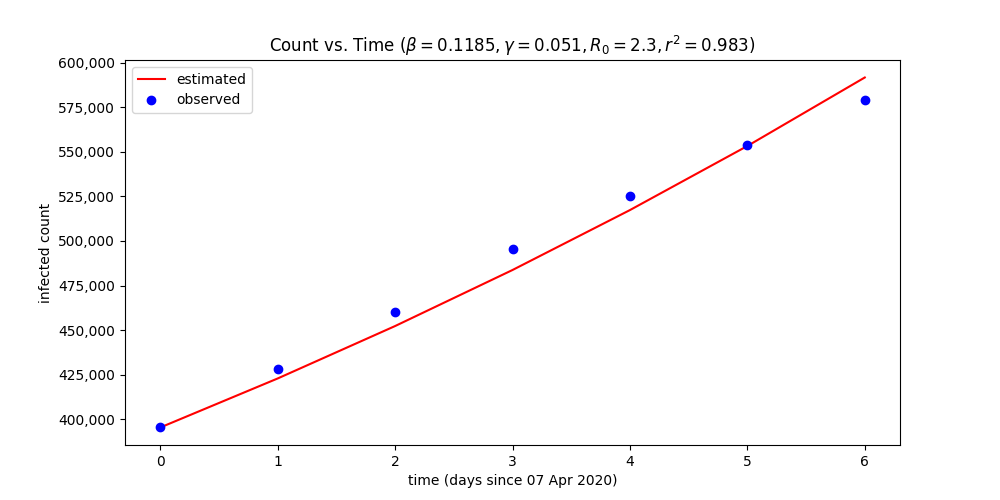
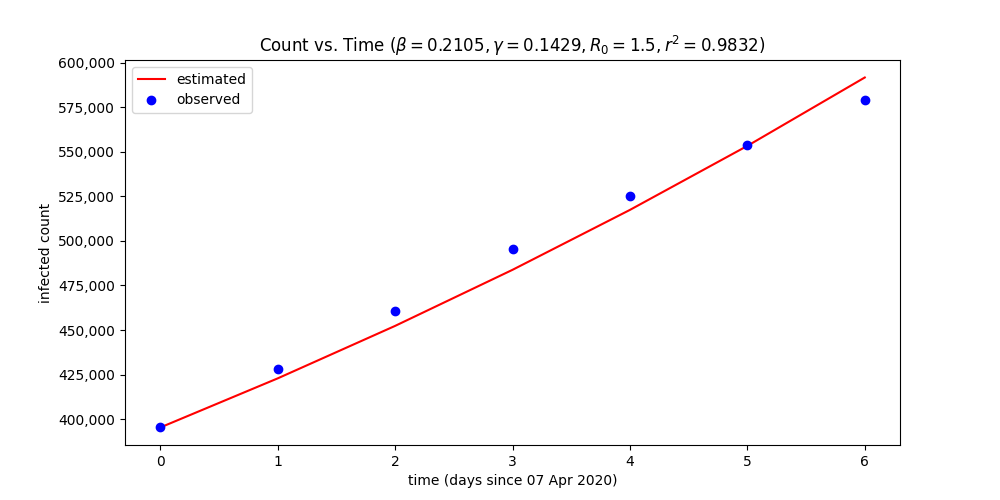
Change assumption: gamma = 1 / 7

Changed region(s): [[0.248, 0.06, 0.62, 0.12], [0.713, 0.06, 0.775, 0.12], [0.62, 0.06, 0.651, 0.09]]

diff --git a/model.py b/model.py
@@ -38,8 +38,9 @@ def main():
     }
 
     # Input parameters
-    recovery_rate = 1 / 19.6
-    # recovery_rate = 1 / 7
+    # recovery_rate = 1 / 19.6
+    recovery_rate = 1 / 7
+    # recovery_rate = 1 / 4
 
     # Solver
     estimated_infection_rate = solver(
@@ -49,7 +50,7 @@ def main():
 
     # Projection
     project(
-        population=total_us_population, initial=initial, days=500, infection_rate=estimated_infection_rate,
+        population=total_us_population, initial=initial, days=350, infection_rate=estimated_infection_rate,
         recovery_rate=recovery_rate, start_date=start_date
     )
 
